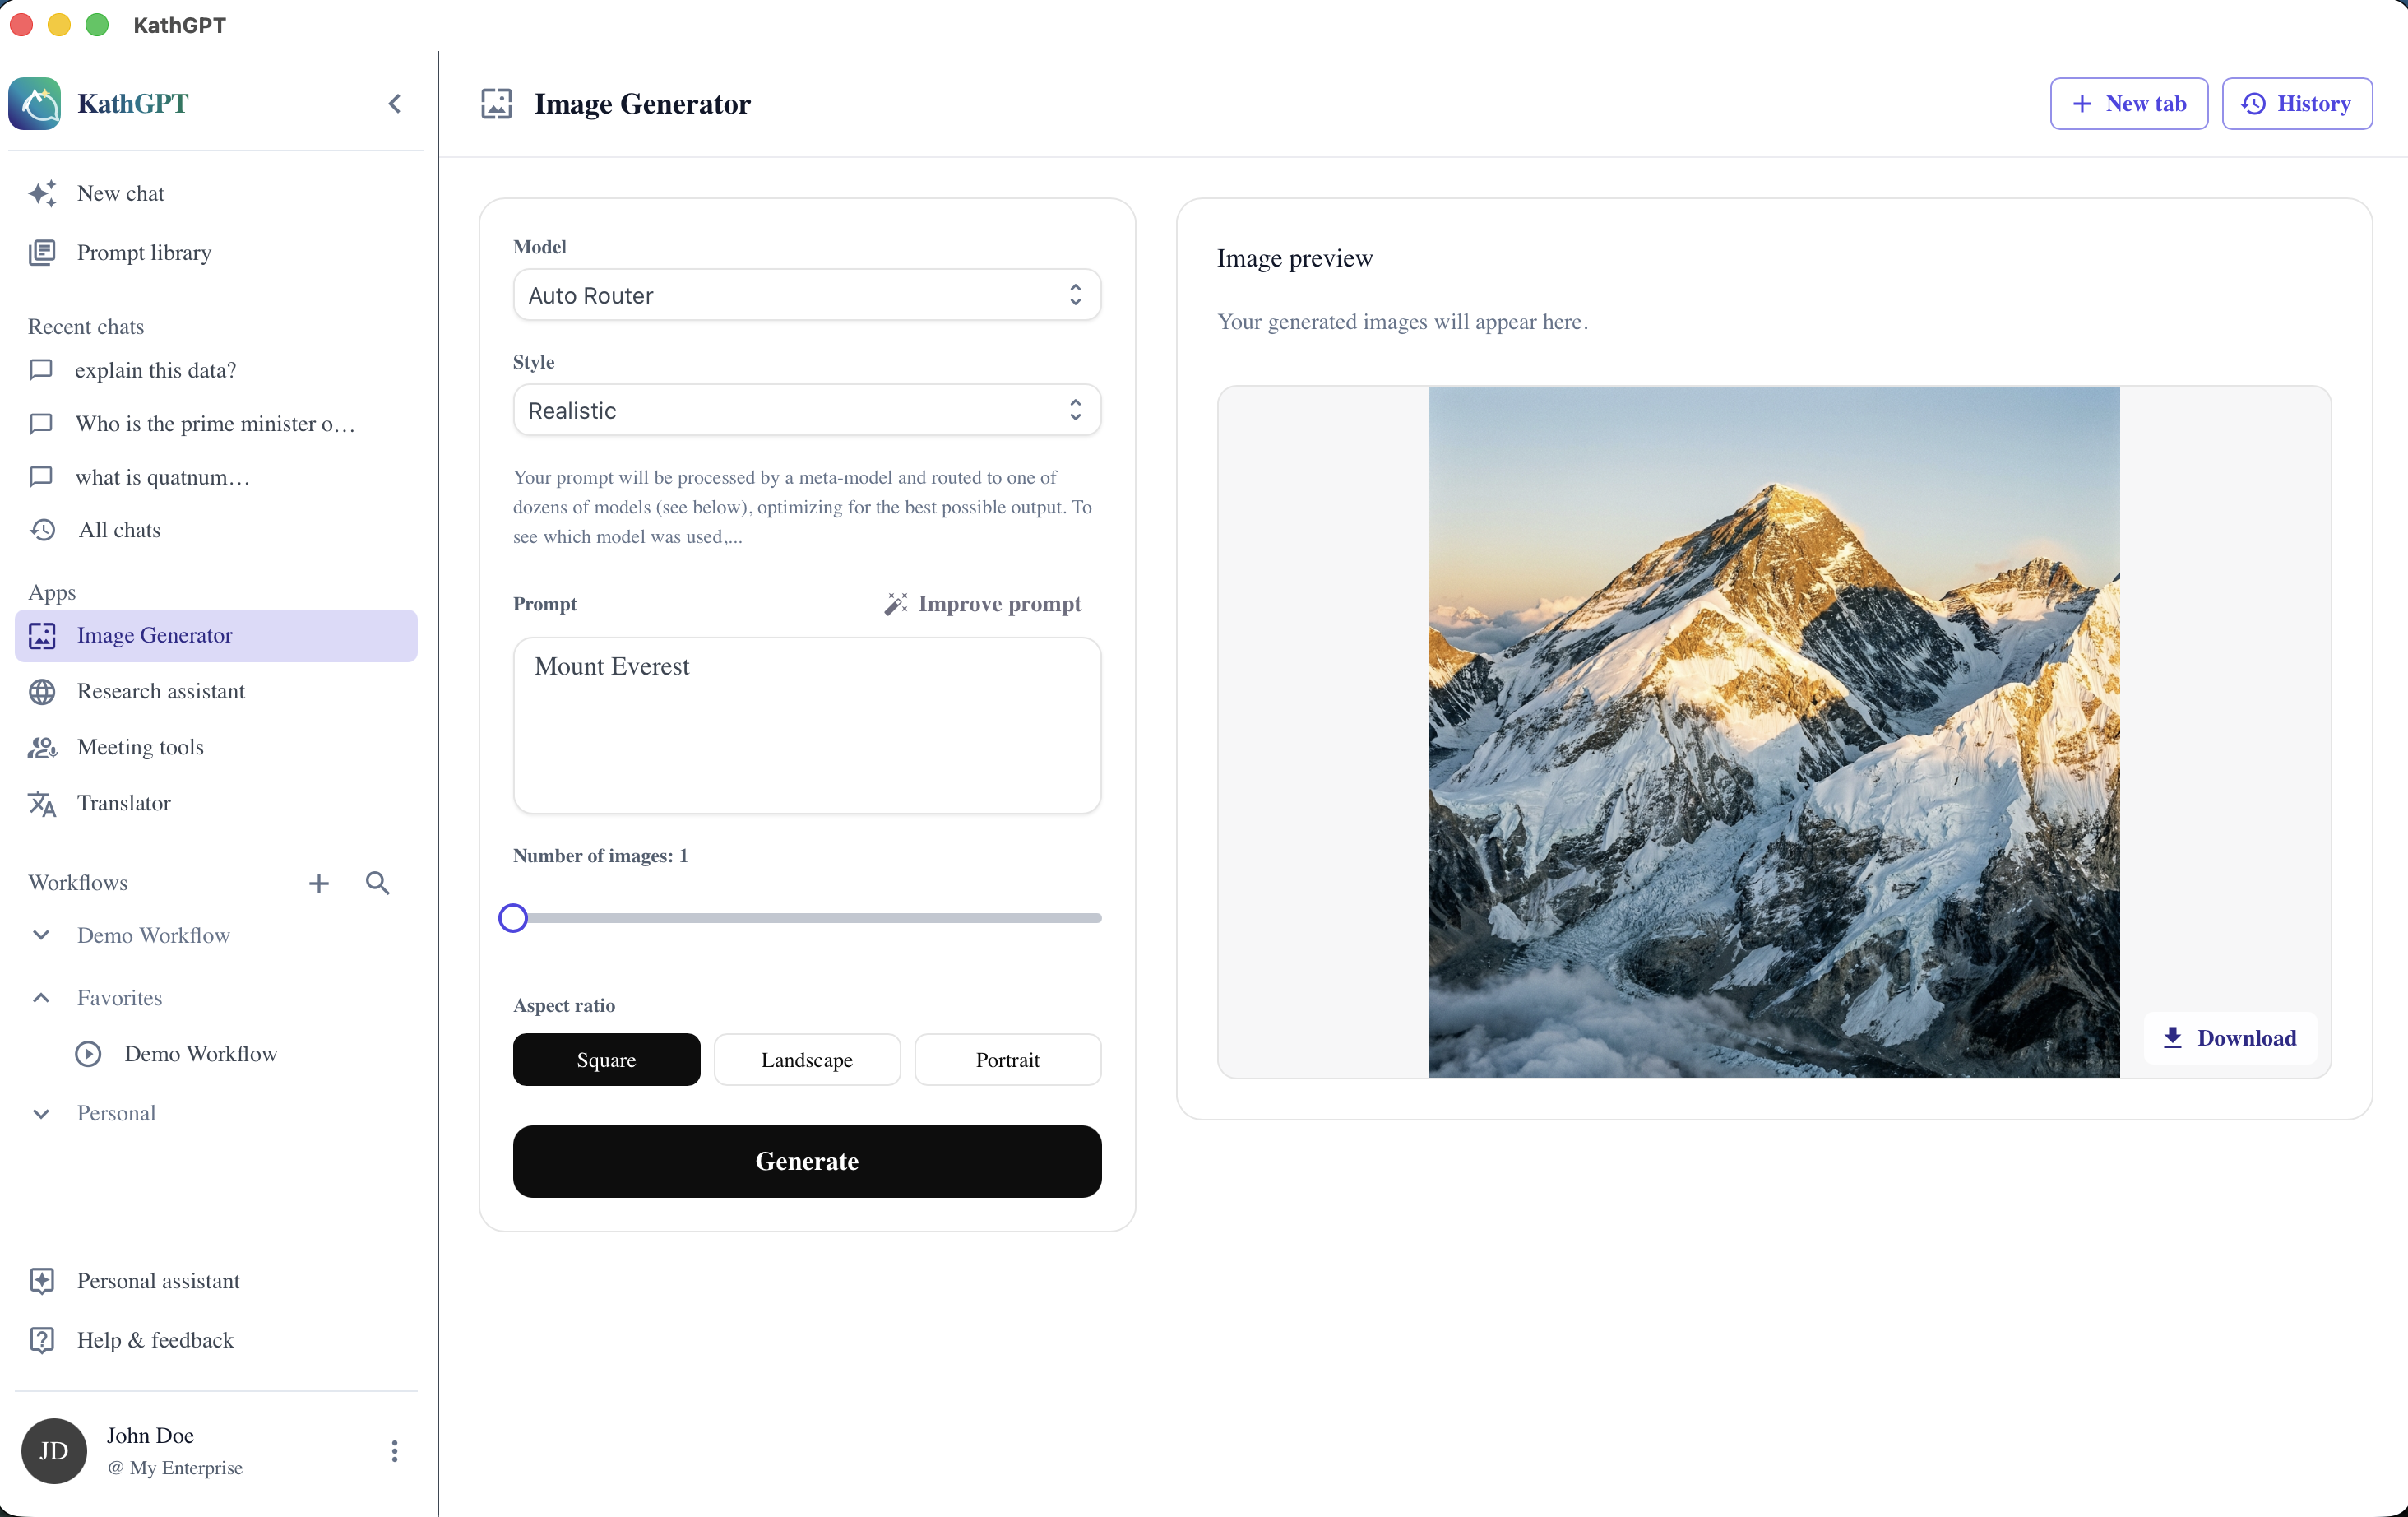
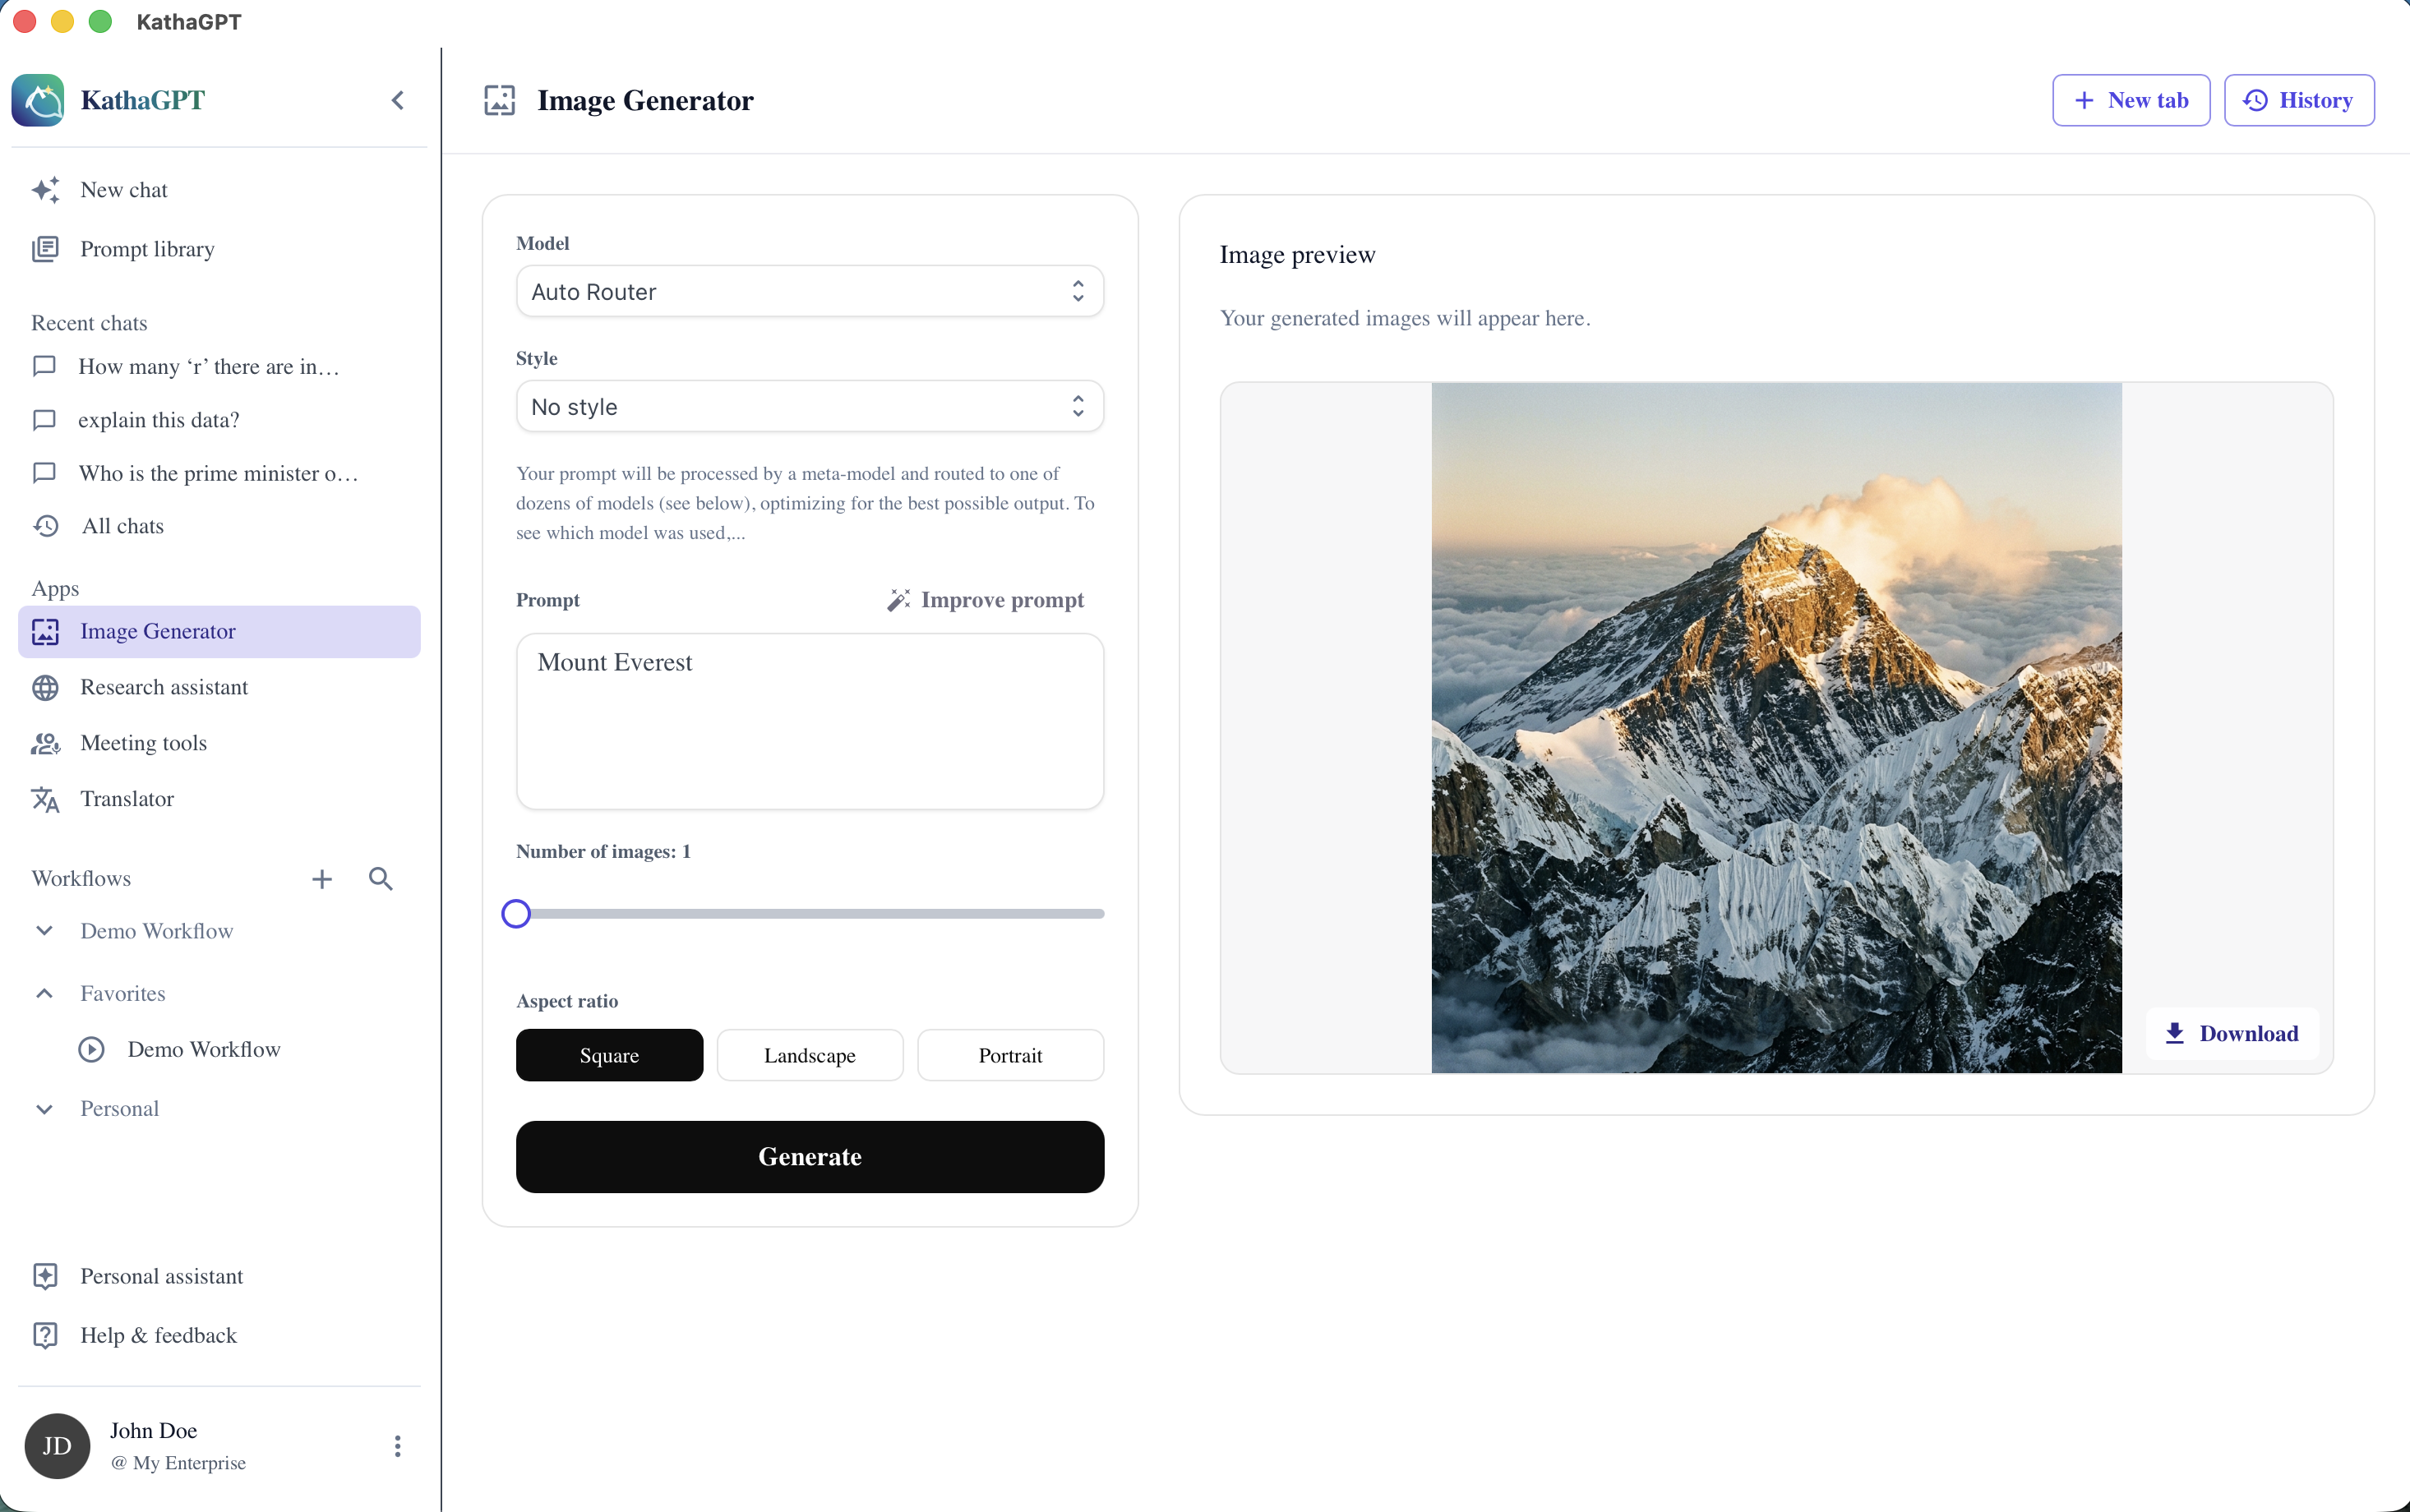
Update website product screenshots and add Meeting tools showcase.
Replace outdated showcase images with new captures and wire Meeting tools as a fifth product tab.

diff --git a/website/src/lib/features.ts b/website/src/lib/features.ts
@@ -1,6 +1,6 @@
 import { assetUrl } from "./site";
 
-export type FeatureId = "chat" | "image" | "research" | "translation";
+export type FeatureId = "chat" | "image" | "research" | "translation" | "meeting";
 
 export interface ProductFeature {
   id: FeatureId;
@@ -25,7 +25,7 @@ export const PRODUCT_FEATURES: ProductFeature[] = [
       "Document uploads with drag-and-drop",
       "Prompt library and reusable workflows",
     ],
-    image: assetUrl("images/chat.png"),
+    image: assetUrl("images/chats.png"),
   },
   {
     id: "image",
@@ -53,7 +53,7 @@ export const PRODUCT_FEATURES: ProductFeature[] = [
       "Summary, key points, and detailed sections",
       "Tab history for parallel research threads",
     ],
-    image: assetUrl("images/research.png"),
+    image: assetUrl("images/Research-assis.png"),
   },
   {
     id: "translation",
@@ -67,6 +67,20 @@ export const PRODUCT_FEATURES: ProductFeature[] = [
       "Side-by-side scrollable previews",
       "Save as… with native file picker",
     ],
-    image: assetUrl("images/translation.png"),
+    image: assetUrl("images/Translate.png"),
+  },
+  {
+    id: "meeting",
+    label: "Meeting tools",
+    shortLabel: "Meetings",
+    title: "Turn meeting notes into action",
+    description:
+      "Paste a transcript or rough notes, then summarize the discussion or pull out action items with AI — without sending your data to a cloud workspace.",
+    bullets: [
+      "Summarize long transcripts in seconds",
+      "Extract owners, deadlines, and next steps",
+      "Dedicated tool workspace with chat history",
+    ],
+    image: assetUrl("images/Meeting-tools.png"),
   },
 ];

diff --git a/website/src/components/ProductShowcase.tsx b/website/src/components/ProductShowcase.tsx
@@ -11,6 +11,7 @@ const TAB_ICONS: Record<FeatureId, (props: { className?: string }) => JSX.Elemen
   image: ImageIcon,
   research: ResearchIcon,
   translation: TranslateIcon,
+  meeting: MeetingIcon,
 };
 
 export function ProductShowcase() {
@@ -24,11 +25,12 @@ export function ProductShowcase() {
         <div className="mx-auto max-w-3xl text-center">
           <p className="section-label">Product</p>
           <h2 className="section-title mt-3 md:text-5xl">
-            One app. Four powerful tools.
+            One app. Five powerful tools.
           </h2>
           <p className="section-body mt-4">
-            Chat, generate images, research with citations, and translate whole
-            documents — all in a native desktop workspace that keeps your data local.
+            Chat, generate images, research with citations, translate whole
+            documents, and process meeting notes — all in a native desktop
+            workspace that keeps your data local.
           </p>
         </div>
 
@@ -133,6 +135,14 @@ function TranslateIcon({ className }: { className?: string }) {
   return (
     <svg className={className} fill="none" viewBox="0 0 24 24" stroke="currentColor" strokeWidth={1.5}>
       <path strokeLinecap="round" strokeLinejoin="round" d="M10.5 21l5.25-11.25L21 21m-9-3h7.5M3 5.621a48.474 48.474 0 016-.371m0 0c1.12 0 2.233.038 3.334.114M9 5.25V3m3.334 2.364C11.176 10.658 7.69 15.08 3 17.502m9.334-12.138c.896.061 1.785.147 2.666.257m-4.589 8.495a18.023 18.023 0 01-3.827-5.802" />
+    </svg>
+  );
+}
+
+function MeetingIcon({ className }: { className?: string }) {
+  return (
+    <svg className={className} fill="none" viewBox="0 0 24 24" stroke="currentColor" strokeWidth={1.5}>
+      <path strokeLinecap="round" strokeLinejoin="round" d="M18 18.72a9.094 9.094 0 003.741-.479 3 3 0 00-4.682-2.72m.94 3.198l.001.031c0 .225-.012.447-.037.666A11.944 11.944 0 0112 21c-2.17 0-4.207-.576-5.963-1.584A6.065 6.065 0 016 18.719m12 0a5.971 5.971 0 00-.941-3.197m0 0A5.995 5.995 0 0012 12.75a5.995 5.995 0 00-5.058 2.772m0 0a3 3 0 00-4.681 2.72 8.986 8.986 0 003.74.477m.94-3.197a5.971 5.971 0 00-.94 3.197M15 6.75a3 3 0 11-6 0 3 3 0 016 0zm6 3a2.25 2.25 0 11-4.5 0 2.25 2.25 0 014.5 0zm-13.5 0a2.25 2.25 0 11-4.5 0 2.25 2.25 0 014.5 0z" />
     </svg>
   );
 }